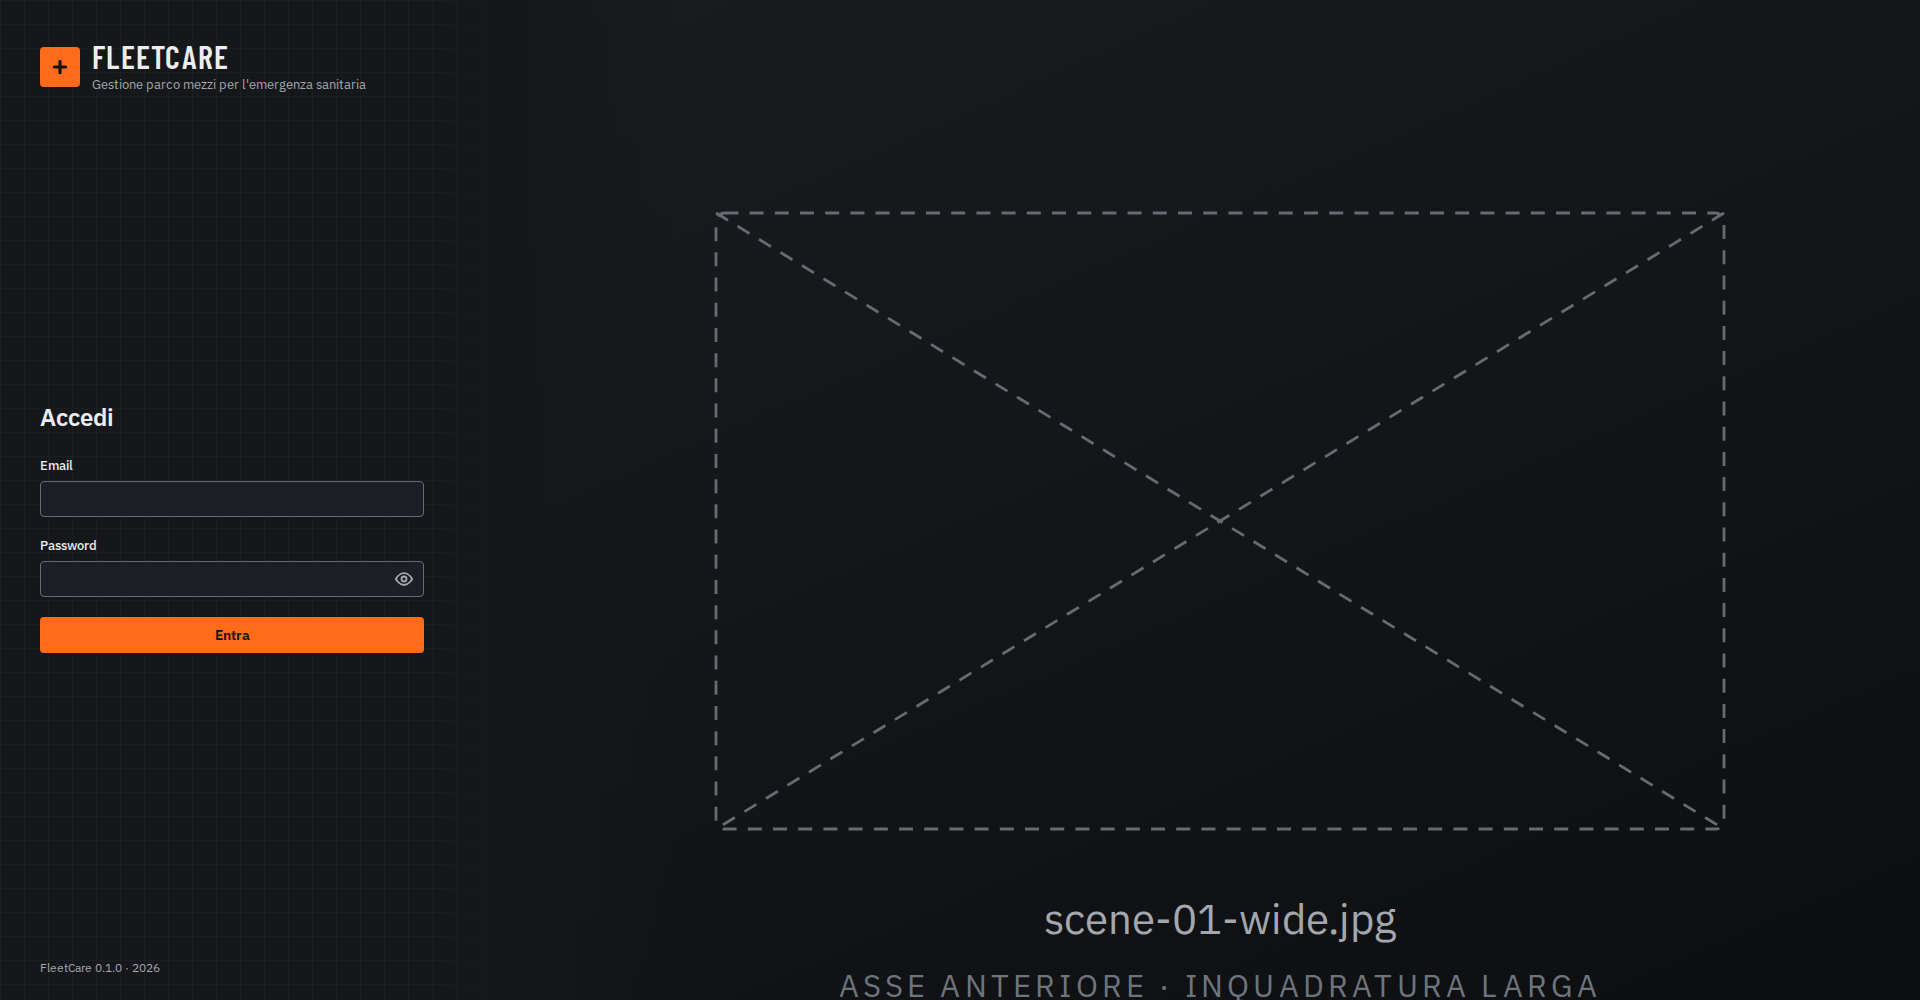
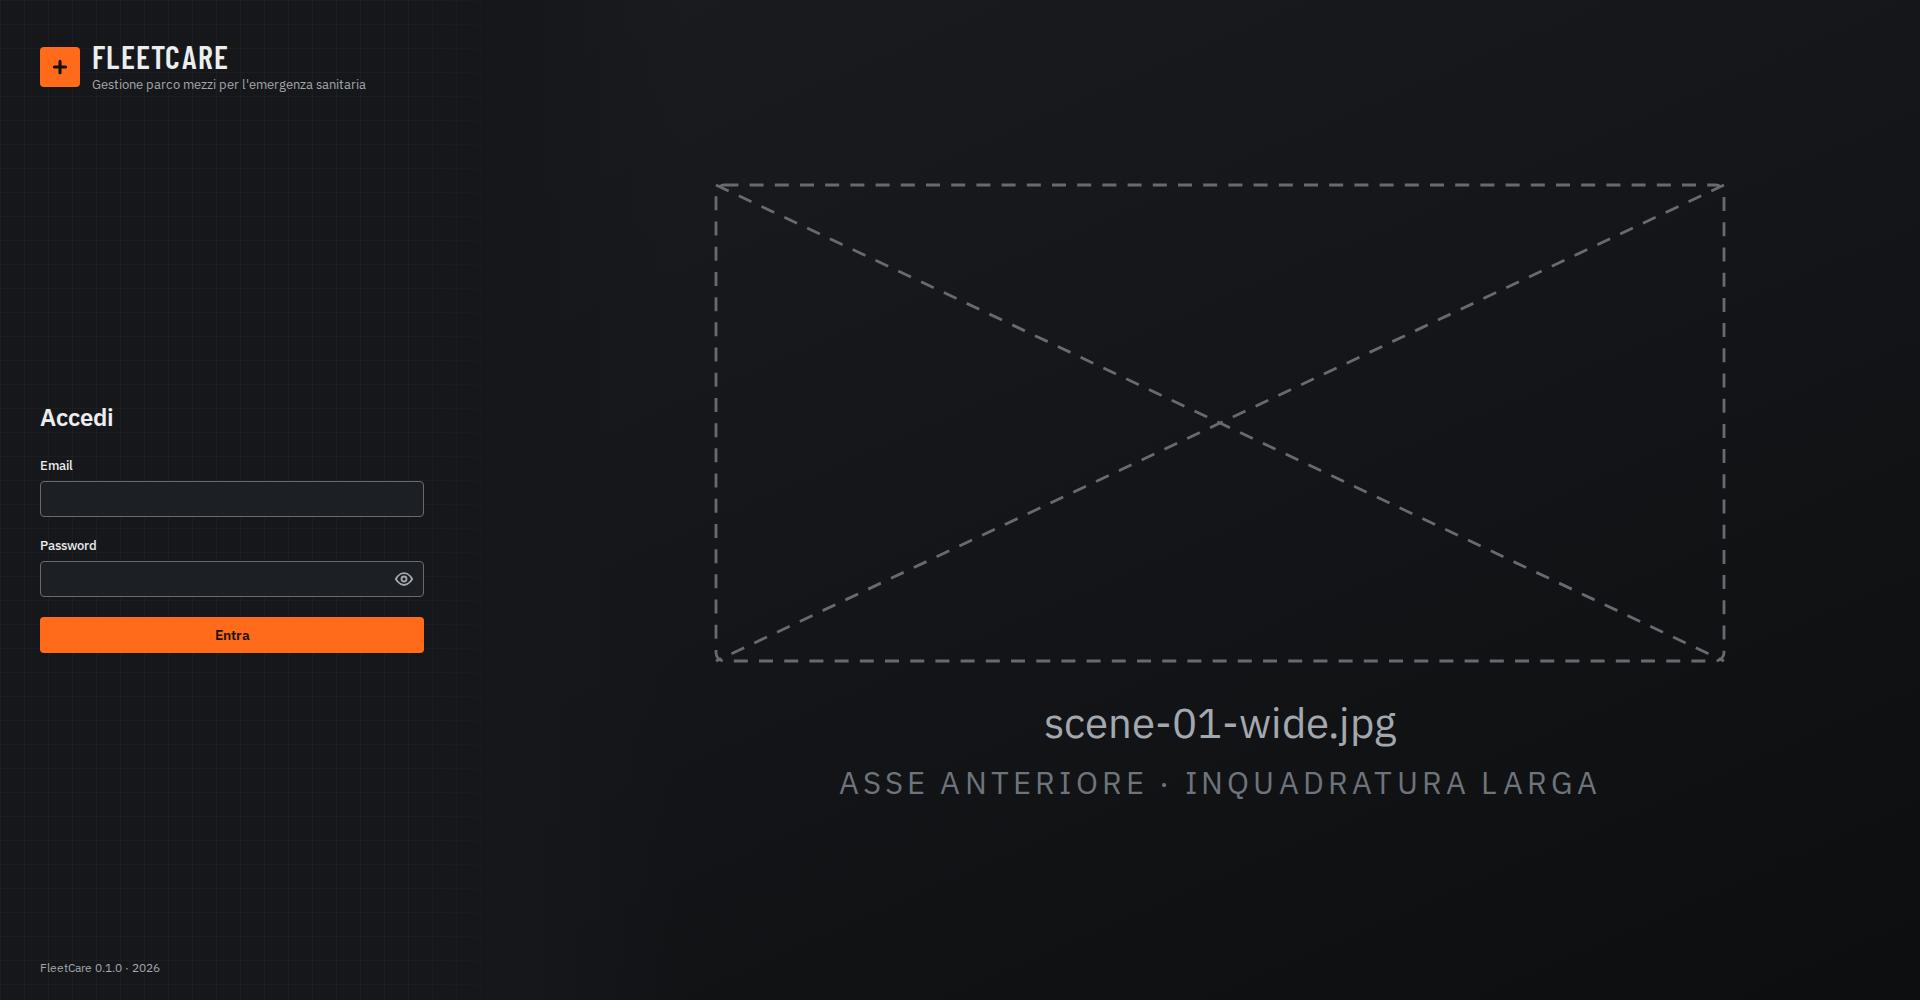
PR4: correzioni dalla revisione della login
- errore del campo detto dal lettore di schermo anche quando il focus è
  già sul campo sbagliato (Invio nell'email): regione live nel modulo
- il messaggio sotto il campo sparisce appena non è più quello giusto, e
  anche con il solo evento change dei gestori di password
- la password mostrata torna nascosta all'invio
- testo al 200%: niente scorrimento orizzontale a 320 px (colonna unica
  esplicita, marchio che va a capo solo se serve, wordmark spezzabile)
- griglia tecnica sfumata a destra solo da 1024 px, dove c'è la hero
- telefono: il modulo è alto 100dvh meno la banda, non 72dvh
- segnaposto della hero: scritte sempre intere da 1024 px (fino a
  3440×1440), nascoste sotto, dove la banda è troppo bassa
- --font-display con ripieghi stretti per i sistemi senza Arial; commento
  di fonts.ts corretto su LCP e font-display: optional

Claude-Session: https://claude.ai/code/session_01UWFQ1JMcRiPo22Cy3wVcrf

diff --git a/apps/web/src/app/login/login-form.tsx b/apps/web/src/app/login/login-form.tsx
@@ -4,7 +4,9 @@
  * Il modulo di accesso. I campi, i nomi e l'azione sono quelli di sempre
  * (`loginAction`): il modulo funziona anche prima che arrivi il JavaScript,
  * con i controlli del browser. Con il JavaScript in più:
- * - i messaggi dei campi non validi stanno sotto il campo, in italiano;
+ * - i messaggi dei campi non validi stanno sotto il campo, in italiano, e
+ *   il lettore di schermo li legge (spostando il focus sul campo, o con una
+ *   regione live se il focus è già lì);
  * - il pulsante per mostrare o nascondere la password (senza JavaScript non
  *   comparirebbe a fare niente: c'è solo dopo l'idratazione, dentro il campo,
  *   senza spostare niente);
@@ -19,6 +21,12 @@ import type { TenantChoice } from "./choices";
 import { fieldMessage, type LoginField } from "./validazione";
 
 type Errors = Partial<Record<LoginField, string>>;
+
+const LABELS: Record<LoginField, string> = {
+  email: "Email",
+  password: "Password",
+  tenant: "Associazione",
+};
 
 function SubmitButton() {
   const { pending } = useFormStatus();
@@ -44,17 +52,31 @@ export function LoginForm({
   const [errors, setErrors] = useState<Errors>({});
   const [showPassword, setShowPassword] = useState(false);
   const [mounted, setMounted] = useState(false);
+  const [announcement, setAnnouncement] = useState("");
   const focusScheduled = useRef(false);
-  useEffect(() => setMounted(true), []);
+  const announceTimer = useRef<number | undefined>(undefined);
+  useEffect(() => {
+    setMounted(true);
+    return () => window.clearTimeout(announceTimer.current);
+  }, []);
 
   const fieldOf = (el: EventTarget): LoginField | null => {
     const name = (el as HTMLInputElement).name;
     return name === "email" || name === "password" || name === "tenant" ? name : null;
   };
 
+  // il messaggio va detto anche a voce: svuotare la regione e riscriverla
+  // poco dopo, così il lettore di schermo lo ripete anche se è lo stesso
+  function announce(text: string) {
+    window.clearTimeout(announceTimer.current);
+    setAnnouncement("");
+    announceTimer.current = window.setTimeout(() => setAnnouncement(text), 100);
+  }
+
   // il browser segnala un campo non valido: il messaggio va sotto il campo,
   // al posto del fumetto, e il primo campo da correggere prende il focus
-  // (col fumetto lo farebbe il browser)
+  // (col fumetto lo farebbe il browser). Se il focus è già lì (Invio nel
+  // campo sbagliato) spostarlo non fa leggere niente: lo dice la regione live.
   function onInvalid(e: FormEvent<HTMLFormElement>) {
     const target = e.target as HTMLInputElement | HTMLSelectElement;
     const field = fieldOf(target);
@@ -67,23 +89,50 @@ export function LoginForm({
       const form = e.currentTarget;
       queueMicrotask(() => {
         focusScheduled.current = false;
-        form.querySelector<HTMLElement>(":invalid")?.focus();
+        const first = form.querySelector<HTMLInputElement | HTMLSelectElement>(":invalid");
+        if (!first) return;
+        if (document.activeElement !== first) {
+          first.focus();
+          return;
+        }
+        const f = fieldOf(first);
+        const text = f && fieldMessage(f, first.validity);
+        if (f && text) announce(`${LABELS[f]}: ${text}`);
       });
     }
   }
 
-  // mentre si corregge, il messaggio sparisce appena il campo torna valido
-  function onInput(e: FormEvent<HTMLFormElement>) {
+  // mentre si corregge, il messaggio sparisce appena non è più quello giusto
+  // (il campo è valido, o «Scrivi l'email.» quando qualcosa c'è scritto); il
+  // messaggio nuovo, se serve, arriva al prossimo invio, non mentre si scrive.
+  // È onChange: in React ascolta sia `input` sia `change`, che è l'unico
+  // evento di certi gestori di password quando riempiono i campi.
+  function onChange(e: FormEvent<HTMLFormElement>) {
     const target = e.target as HTMLInputElement | HTMLSelectElement;
     const field = fieldOf(target);
     if (!field || !errors[field]) return;
-    if (target.validity.valid) setErrors((prev) => ({ ...prev, [field]: undefined }));
+    if (fieldMessage(field, target.validity) !== errors[field]) {
+      setErrors((prev) => ({ ...prev, [field]: undefined }));
+      window.clearTimeout(announceTimer.current);
+      setAnnouncement("");
+    }
   }
 
   const multi = choices.length > 1;
 
   return (
-    <form action={action} onInvalidCapture={onInvalid} onInput={onInput} className="space-y-5">
+    <form
+      action={action}
+      onInvalidCapture={onInvalid}
+      onChange={onChange}
+      // la password parte come password anche se era mostrata: i gestori di
+      // password riconoscono il campo dal tipo. Il FormData non cambia.
+      onSubmit={() => setShowPassword(false)}
+      className="space-y-5"
+    >
+      <p aria-live="assertive" className="sr-only">
+        {announcement}
+      </p>
       {multi && (
         <Alert tone="info">
           Sei in più di un&apos;associazione: scegli quale, e rimetti la password.

diff --git a/apps/web/src/app/login/hero.tsx b/apps/web/src/app/login/hero.tsx
@@ -7,7 +7,10 @@
  *
  * È decorativa: `aria-hidden`, niente di focusabile, `pointer-events: none`.
  * Il segnaposto è in 4:5 come gli asset (viewBox 1000×1250) e riempie il
- * riquadro come `object-fit: cover`.
+ * riquadro come `object-fit: cover`: del disegno si vede sempre la fascia
+ * centrale, che a 2560×1080 è alta circa da y 360 a y 890. Per questo
+ * wireframe e scritte stanno tra 400 e 840. Sotto i 1024 px la banda è
+ * troppo bassa per le scritte e resta solo il wireframe.
  */
 import type { CSSProperties } from "react";
 
@@ -42,14 +45,14 @@ export function ScenePlaceholder({
       <rect width="1000" height="1250" fill={`url(#${id})`} />
       {/* il wireframe: il riquadro dove andrà l'ambulanza, con le diagonali */}
       <g className="fill-none stroke-line-strong" strokeWidth={2} strokeDasharray="10 8">
-        <rect x="140" y="420" width="720" height="440" rx="6" />
-        <path d="M140 420 860 860M860 420 140 860" />
+        <rect x="140" y="400" width="720" height="340" rx="6" />
+        <path d="M140 400 860 740M860 400 140 740" />
       </g>
-      <g className="fill-fg-secondary font-sans" textAnchor="middle">
-        <text x="500" y="935" fontSize="30">
+      <g className="fill-fg-secondary font-sans max-lg:hidden" textAnchor="middle">
+        <text x="500" y="795" fontSize="30">
           {file}
         </text>
-        <text x="500" y="980" fontSize="22" className="fill-fg-muted" letterSpacing="3">
+        <text x="500" y="835" fontSize="22" className="fill-fg-muted" letterSpacing="3">
           {label}
         </text>
       </g>

diff --git a/apps/web/src/app/login/page.tsx b/apps/web/src/app/login/page.tsx
@@ -32,17 +32,19 @@ export default async function LoginPage({
   const choices = decodeChoices(params.scegli);
 
   return (
-    <main className="touch grid min-h-dvh lg:grid-cols-[clamp(400px,34vw,520px)_minmax(0,1fr)]">
-      <section className="griglia-tecnica z-10 flex min-h-[72dvh] flex-col bg-surface px-6 pt-8 pb-6 sm:px-10 lg:min-h-dvh lg:pt-10">
-        <div className="flex items-center gap-3">
+    <main className="touch grid min-h-dvh grid-cols-1 lg:grid-cols-[clamp(400px,34vw,520px)_minmax(0,1fr)]">
+      <section className="griglia-tecnica z-10 flex min-h-[calc(100dvh_-_28vh)] flex-col bg-surface px-6 pt-8 pb-6 sm:px-10 lg:min-h-dvh lg:pt-10">
+        <div className="flex flex-wrap items-center gap-x-3 gap-y-2">
           <span
             aria-hidden="true"
             className="flex size-10 shrink-0 items-center justify-center rounded-sm bg-accent text-on-accent"
           >
             <IconCross className="size-5" />
           </span>
-          <div className="min-w-0">
-            <p className="title-display text-32 leading-none">FleetCare</p>
+          {/* il testo va a capo sotto il marchio solo se non ci stanno 10rem
+              accanto (testo ingrandito): a 320 px normali resta di fianco */}
+          <div className="min-w-0 grow basis-40">
+            <p className="title-display text-32 leading-none wrap-anywhere">FleetCare</p>
             <p className="mt-1 text-13 text-fg-secondary">
               Gestione parco mezzi per l&apos;emergenza sanitaria
             </p>

diff --git a/apps/web/src/app/fonts.ts b/apps/web/src/app/fonts.ts
@@ -15,10 +15,14 @@ import localFont from "next/font/local";
 /**
  * Barlow Condensed 600: wordmark, titoli di pagina, HUD. Precaricato: il
  * wordmark della shell è in cima a ogni pagina dell'app. `optional` e non
- * `swap`: il wordmark è l'elemento più grande della login (il suo LCP); se il
- * font non è pronto al primo disegno, per quella visita resta il ripiego,
- * tarato sulle stesse misure, e la pagina non si ridisegna quando arriva.
- * Dalla visita dopo il font è in cache e c'è dal primo disegno.
+ * `swap`: sul telefono il wordmark è l'elemento più grande della login,
+ * quindi il suo LCP. Se il font non è pronto al primo disegno, il browser
+ * tiene il ripiego e non ridisegna quando arriva: niente salto né LCP
+ * spostato, ma il ripiego può restare anche nelle pagine dopo, finché non si
+ * ricarica. Dalla visita dopo il font è in cache e c'è dal primo disegno. Il
+ * ripiego che calcola next/font è Arial tarato sulle misure di Barlow; dove
+ * Arial non c'è (Android) valgono i ripieghi stretti di --font-display in
+ * tokens.css.
  */
 export const fontDisplay = localFont({
   src: "../../node_modules/@fontsource/barlow-condensed/files/barlow-condensed-latin-600-normal.woff2",

diff --git a/apps/web/src/app/globals.css b/apps/web/src/app/globals.css
@@ -139,9 +139,9 @@ html:has(#contenuto) {
 
 /*
  * Il lato del modulo nella login: una griglia tecnica a passo 24 px, linee
- * nel colore del testo al 3%, disegnata su un livello sotto il contenuto che
- * sfuma negli ultimi 96 px a destra: la colonna non finisce su una linea
- * netta, ma si scioglie nella sfumatura della hero.
+ * nel colore del testo al 3%, disegnata su un livello sotto il contenuto. Da
+ * 1024 px, dove la hero sta a destra, sfuma negli ultimi 96 px: la colonna non
+ * finisce su una linea netta, ma si scioglie nella sfumatura della hero.
  */
 @utility griglia-tecnica {
   position: relative;
@@ -164,7 +164,9 @@ html:has(#contenuto) {
         transparent 1px
       );
     background-size: 24px 24px;
-    mask-image: linear-gradient(to right, black calc(100% - 6rem), transparent);
+    @media (width >= 64rem) {
+      mask-image: linear-gradient(to right, black calc(100% - 6rem), transparent);
+    }
   }
 }
 

diff --git a/apps/web/src/app/tokens.css b/apps/web/src/app/tokens.css
@@ -133,7 +133,9 @@
    * vero; il mono ripiega su ui-monospace così com'è, che ha già la stessa
    * larghezza dei caratteri.
    */
-  --font-display: var(--font-barlow-condensed), "Arial Narrow", sans-serif;
+  --font-display:
+    var(--font-barlow-condensed), "Arial Narrow", "sans-serif-condensed", "Roboto Condensed",
+    sans-serif;
   --font-sans: var(--font-plex-sans), ui-sans-serif, system-ui, sans-serif;
   --font-mono: var(--font-plex-mono), ui-monospace, "SFMono-Regular", monospace;
 
